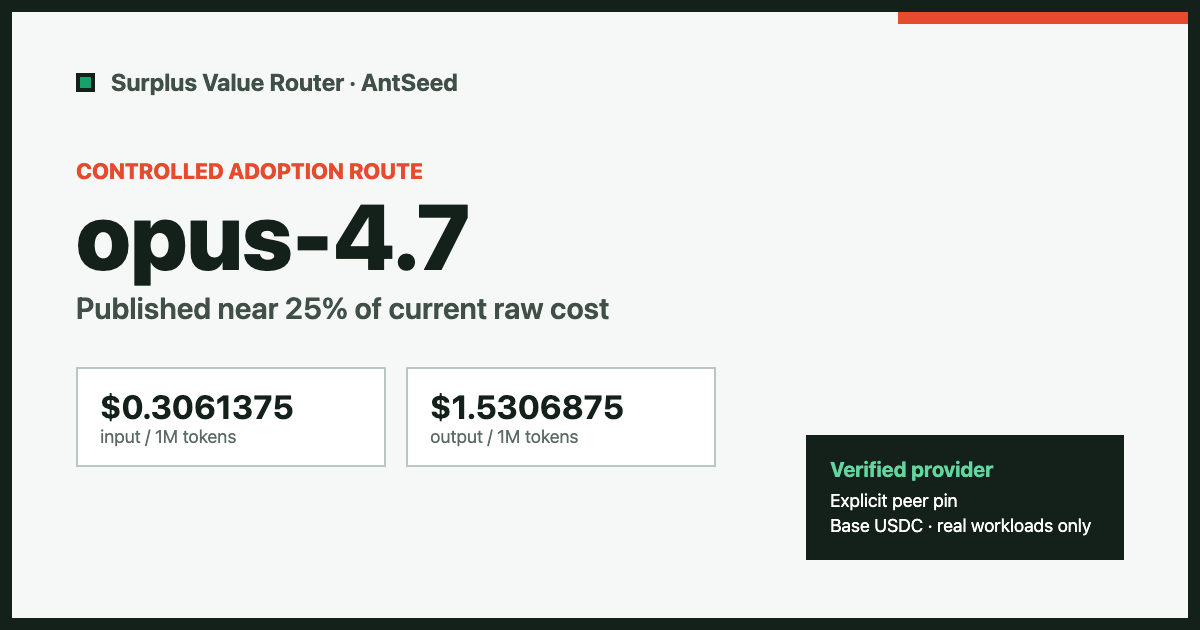
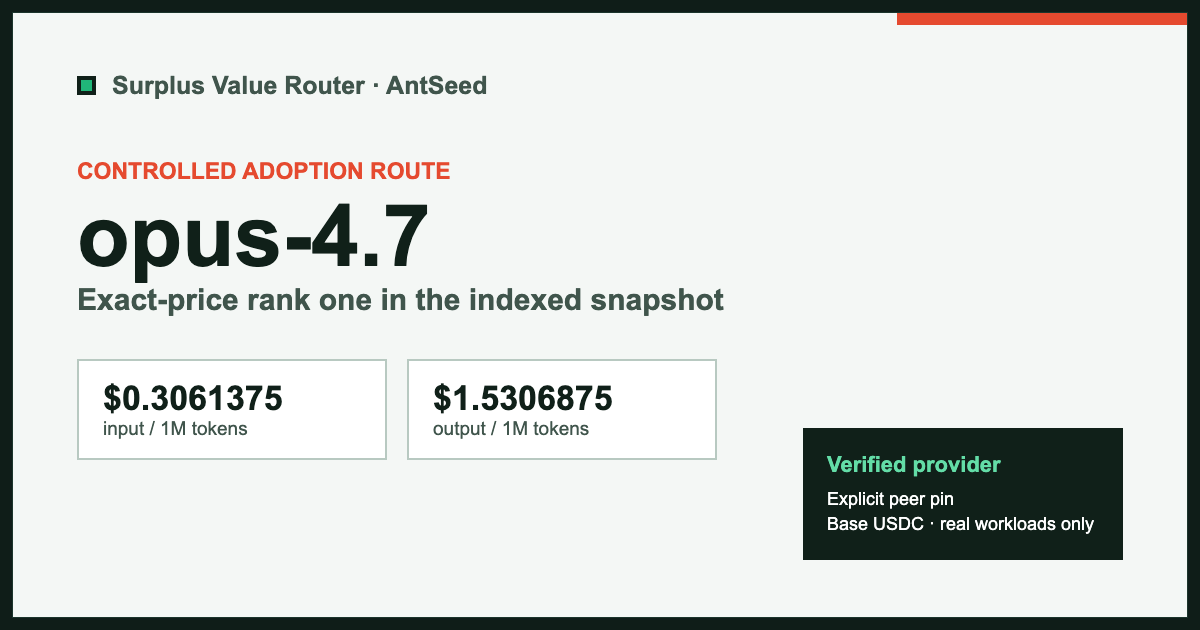
Remove stale Opus raw-cost claim

diff --git a/index.html b/index.html
@@ -608,7 +608,7 @@
           <p class="lede">Explicitly pin this verified AntSeed peer, then run a real OpenAI-compatible workload through a deliberately subsidized high-demand route.</p>
           <div class="launch-offer">
             <strong>opus-4.7 adoption snapshot: $0.3061375 input / $1.5306875 output per 1M tokens</strong>
-            <span>About 25% of current raw cost · AntStation for macOS, Windows and Linux · Base USDC</span>
+            <span>Controlled exact-rank-one price · AntStation for macOS, Windows and Linux · Base USDC</span>
           </div>
           <div class="actions hero-actions">
             <a class="action" href="https://github.com/AntSeed/antseed/releases/latest" target="_blank" rel="noopener">Download AntStation</a>
@@ -680,7 +680,7 @@ curl -s http://127.0.0.1:8377/v1/models | jq '.data[].id'</code></pre>
           </div>
           <div class="first-call" id="first-workload">
             <h3>Step 04: Choose a real first workload</h3>
-            <p id="starter-summary"><code id="starter-model-name">opus-4.7</code> <span id="starter-summary-text">is second in AntSeed's July 19 Top models by users snapshot and has a controlled price near 25% of current raw cost. The model-prefix route pins this provider for one request without changing your saved connection. Replace the message with a task you actually need completed.</span></p>
+            <p id="starter-summary"><code id="starter-model-name">opus-4.7</code> <span id="starter-summary-text">is second in AntSeed's July 19 Top models by users snapshot and has a controlled exact-rank-one price. The model-prefix route pins this provider for one request without changing your saved connection. Replace the message with a task you actually need completed.</span></p>
             <div class="model-picker">
               <span class="model-picker-label">Starter model</span>
               <div class="model-selector" role="group" aria-label="Starter model">
@@ -920,7 +920,7 @@ https://woodfuturebj-boop.github.io/routes/opus-4.7/</code></pre>
         "opus-4.7": {
           input: "$0.3061375",
           output: "$1.5306875",
-          summary: "is second in AntSeed's July 19 Top models by users snapshot and has a controlled price near 25% of current raw cost",
+          summary: "is second in AntSeed's July 19 Top models by users snapshot and has a controlled exact-rank-one price",
         },
         "claude-opus-4.7": {
           input: "$0.1940598",